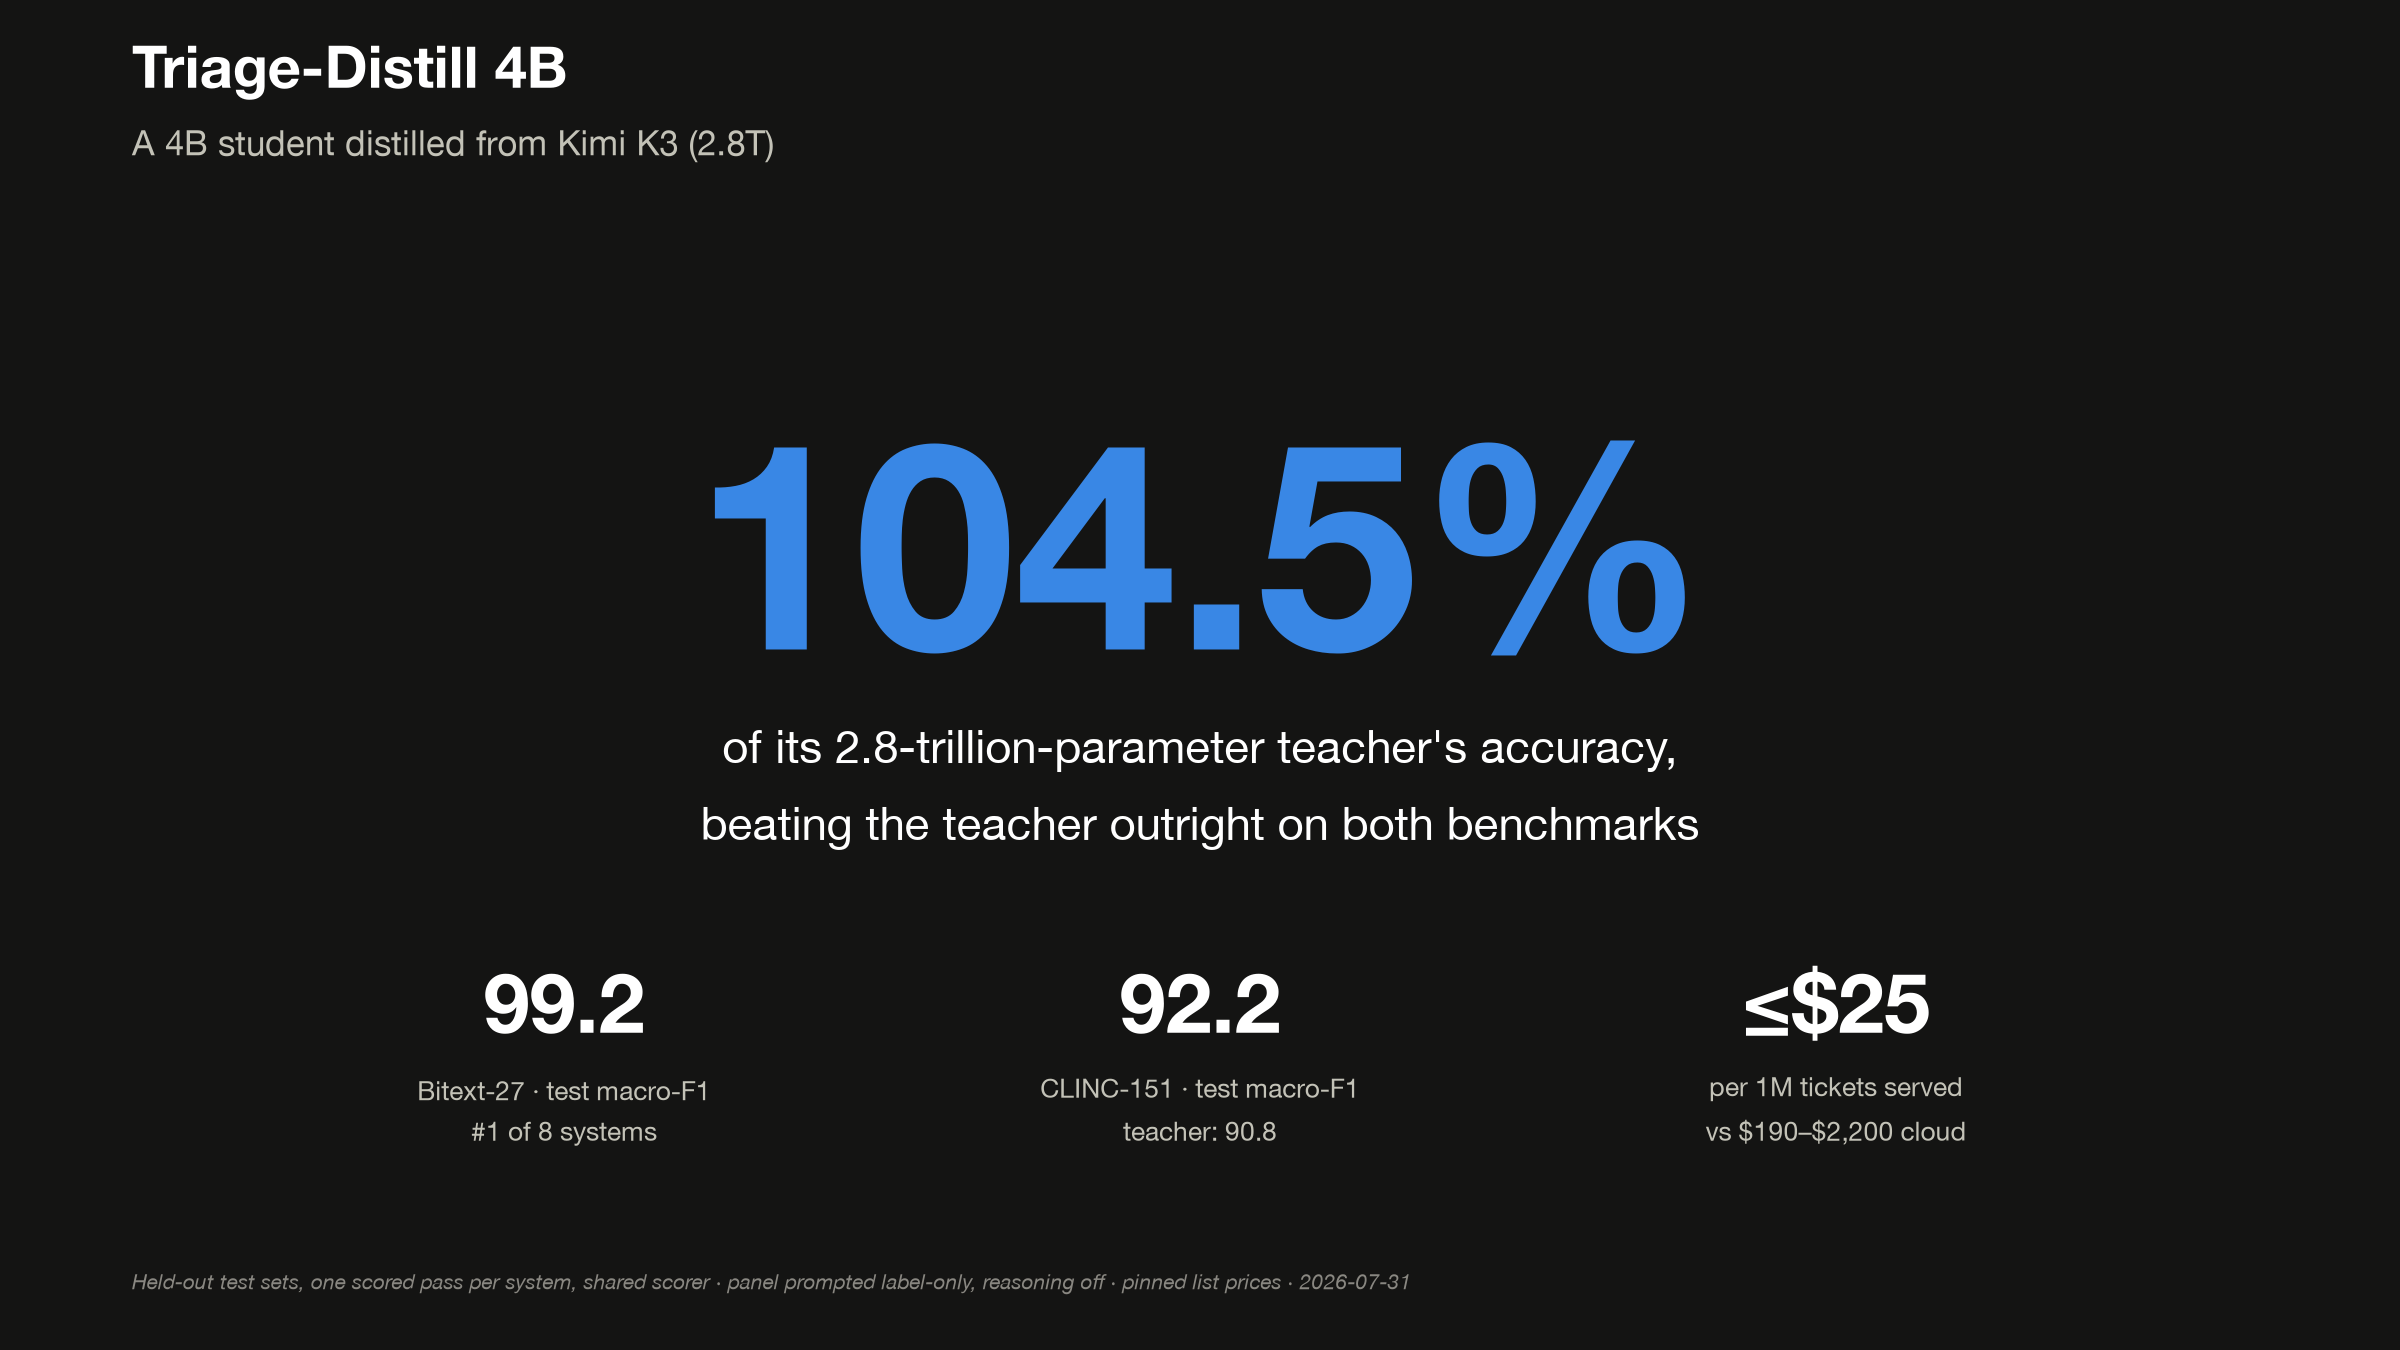
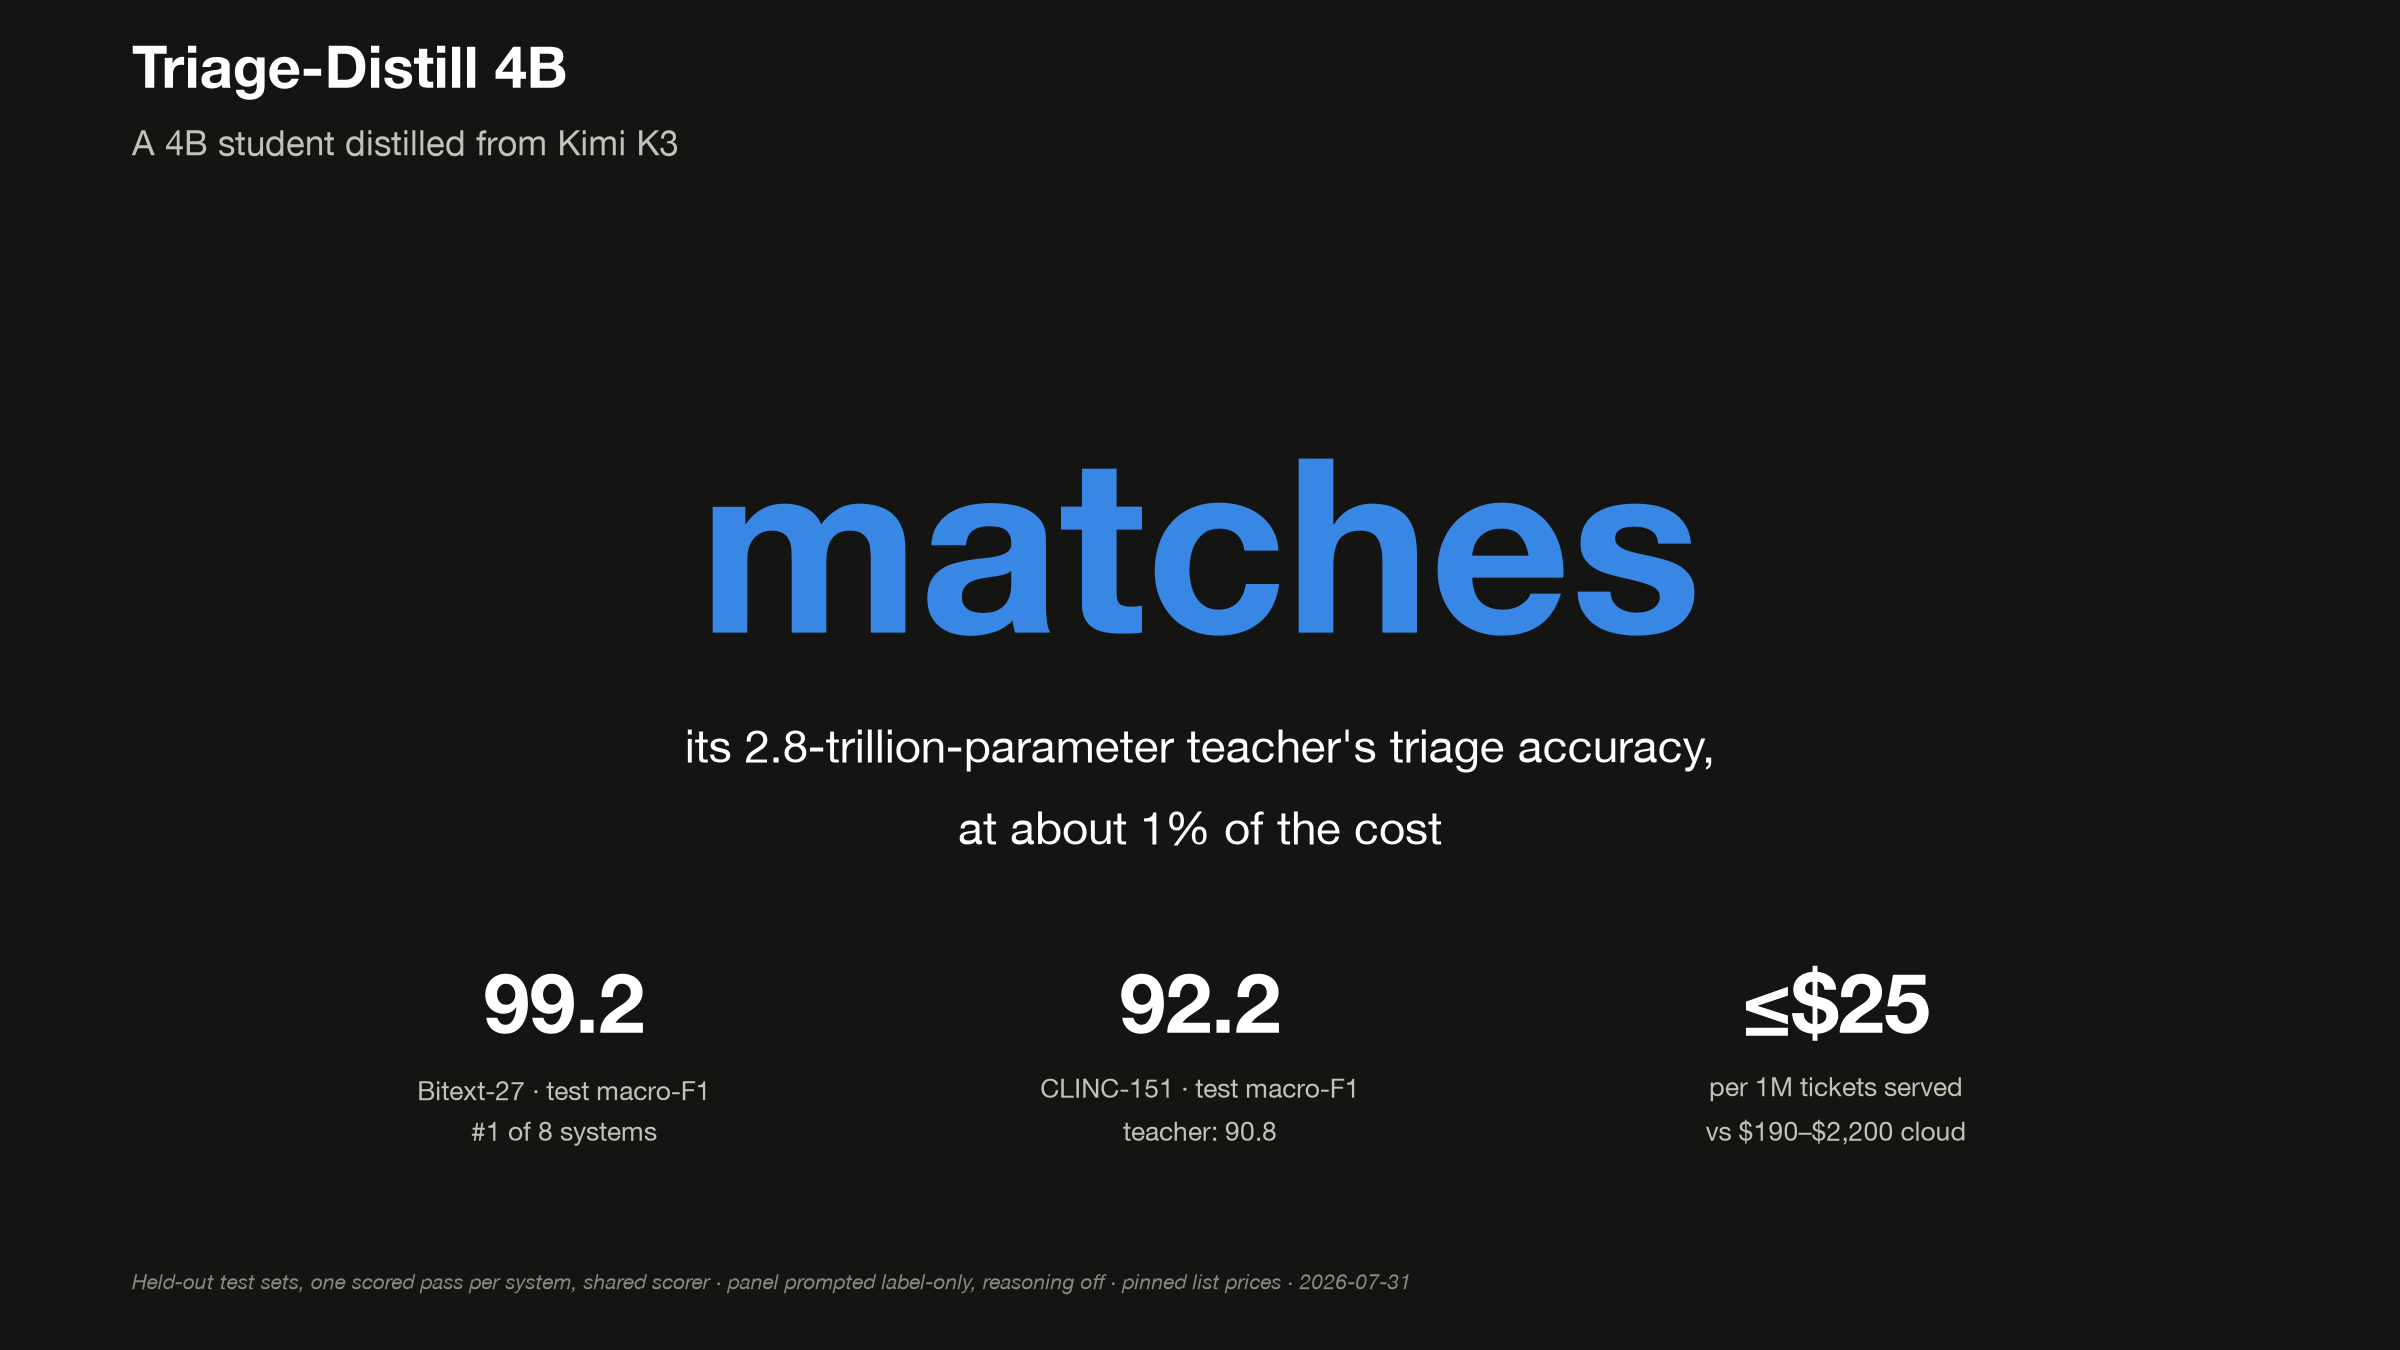
cards: reframe headline to 'matches' rather than beating the teacher
- card2 hero: '104.5% / beating the teacher' -> 'matches its 2.8-trillion-parameter teacher's triage accuracy, at ~1% of the cost' (>100% retention read as overfitting to a skimmer; the real edge stays in the paper with its caveat)
- card2 tagline no longer repeats 2.8T
- card3: 'while still scoring higher' -> 'at matching accuracy'

Changed region(s): [[0.2812, 0.3111, 0.7188, 0.4978], [0.2812, 0.5289, 0.7188, 0.6222], [0.2812, 0.0933, 0.3125, 0.1244]]

diff --git a/src/triage_distill/eval/render_release_cards.py b/src/triage_distill/eval/render_release_cards.py
@@ -92,10 +92,10 @@ def card1_bench():
 
 def card2_headline():
     fig = _fig()
-    _brand(fig, "A 4B student distilled from Kimi K3 (2.8T)")
-    fig.text(0.5, 0.60, "104.5%", fontsize=104, fontweight="bold", color=ACCENT,
+    _brand(fig, "A 4B student distilled from Kimi K3")
+    fig.text(0.5, 0.60, "matches", fontsize=88, fontweight="bold", color=ACCENT,
              ha="center", va="center")
-    fig.text(0.5, 0.415, "of its 2.8-trillion-parameter teacher's accuracy,\nbeating the teacher outright on both benchmarks",
+    fig.text(0.5, 0.415, "its 2.8-trillion-parameter teacher's triage accuracy,\nat about 1% of the cost",
              fontsize=16.5, color=INK, ha="center", va="center", linespacing=1.45)
     stats = [("99.2", "Bitext-27 · test macro-F1\n#1 of 8 systems"),
              ("92.2", "CLINC-151 · test macro-F1\nteacher: 90.8"),
@@ -132,7 +132,7 @@ def card3_cost():
     for s in ax.spines.values():
         s.set_visible(False)
     ax.tick_params(length=0)
-    fig.text(0.055, 0.80, "88× cheaper than its teacher, while still scoring higher",
+    fig.text(0.055, 0.80, "88× cheaper than its teacher, at matching accuracy",
              fontsize=17, fontweight="bold", color=INK)
     _save(fig, "card3_cost")
 
